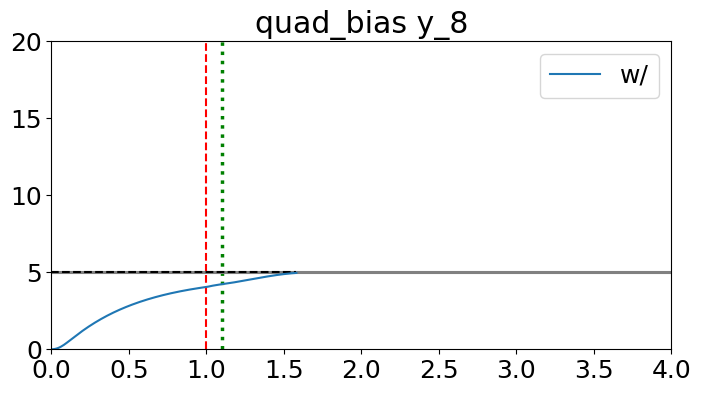
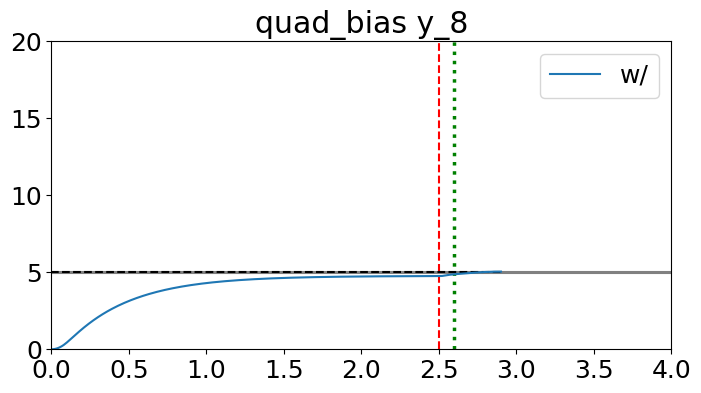
works

diff --git a/rtas/compare_all.py b/rtas/compare_all.py
@@ -82,48 +82,49 @@ for exp in exps:
             if i == exp.attack_start_index - 1:
                 logger.debug(f'trustworthy_index={i}, trustworthy_state={exp.model.cur_x}')
             if exp.recovery_index <= i < recovery_complete_index:
-                logger.debug(f'recovery_index={i}, recovery_start_state={exp.model.cur_x}')
-                
-                # State reconstruction
-                us = exp.model.inputs[exp.attack_start_index - 1:i]
-                xs = exp.model.states[exp.attack_start_index - 1:i+1]
-                x_0 = exp.model.states[exp.attack_start_index - 1]
-                x_cur_lo, x_cur_up, x_cur = non_est.estimate(x_0, us, xs, exp.unsafe_states_onehot)
-                logger.debug(f'reconstructed state={x_cur}')
+                if (i - exp.recovery_index) % exp.MPC_freq == 0:
+                    logger.debug(f'recovery_index={i}, recovery_start_state={exp.model.cur_x}')
+                    
+                    # State reconstruction
+                    us = exp.model.inputs[exp.attack_start_index - 1:i]
+                    xs = exp.model.states[exp.attack_start_index - 1:i+1]
+                    x_0 = exp.model.states[exp.attack_start_index - 1]
+                    x_cur_lo, x_cur_up, x_cur = non_est.estimate(x_0, us, xs, exp.unsafe_states_onehot)
+                    logger.debug(f'reconstructed state={x_cur}')
 
-                # deadline estimate only once
-                if i == exp.recovery_index:
-                    safe_set_lo = exp.safe_set_lo
-                    safe_set_up = exp.safe_set_up
-                    control = exp.model.inputs[i-1]
-                    k = non_est.get_deadline(x_cur, safe_set_lo, safe_set_up, control, max_k=100)
-                    deadline_for_all_methods = k
-                    recovery_complete_index = exp.recovery_index + k
-                    logger.debug(f'deadline={k}')
-                # maintainable time compute
+                    # deadline estimate only once
+                    if i == exp.recovery_index:
+                        safe_set_lo = exp.safe_set_lo
+                        safe_set_up = exp.safe_set_up
+                        control = exp.model.inputs[i-1]
+                        k = non_est.get_deadline(x_cur, safe_set_lo, safe_set_up, control, max_k=100)
+                        deadline_for_all_methods = k
+                        recovery_complete_index = exp.recovery_index + k
+                        logger.debug(f'deadline={k}')
+                    # maintainable time compute
 
 
-                # Linearize and Discretize
-                # Ad, Bd, cd = analytical_linearize_cstr(x_cur, exp.model.inputs[i-1], exp.dt)  # (2, 2) (2, 1) (2,)
-                Ad, Bd, cd = linearize.at(x_cur, exp.model.inputs[i-1])  
+                    # Linearize and Discretize
+                    # Ad, Bd, cd = analytical_linearize_cstr(x_cur, exp.model.inputs[i-1], exp.dt)  # (2, 2) (2, 1) (2,)
+                    Ad, Bd, cd = linearize.at(x_cur, exp.model.inputs[i-1])  
 
-                # get recovery control sequence
-                mpc_settings = {
-                    'Ad': Ad, 'Bd': Bd, 'c_nonlinear': cd,
-                    'Q': exp.Q, 'QN': exp.QN, 'R': exp.R,
-                    'N': k+maintain_time+1-(i-exp.recovery_index), # horizon (N) keeps decreasing in receding horizon MPC 
-                    'ddl': k-(i-exp.recovery_index), 'target_lo': exp.target_set_lo, 'target_up': exp.target_set_up,
-                    'safe_lo': exp.safe_set_lo, 'safe_up': exp.safe_set_up,
-                    'control_lo': exp.control_lo, 'control_up': exp.control_up,
-                    'ref': exp.recovery_ref
-                }
-                mpc = MPC(mpc_settings)
-                _ = mpc.update(feedback_value=x_cur)
-                rec_u = mpc.get_full_ctrl()
-                rec_x = mpc.get_last_x()
-                logger.debug(f'expected recovery state={rec_x}')
+                    # get recovery control sequence
+                    mpc_settings = {
+                        'Ad': Ad, 'Bd': Bd, 'c_nonlinear': cd,
+                        'Q': exp.Q, 'QN': exp.QN, 'R': exp.R,
+                        'N': k+maintain_time+1-(i-exp.recovery_index), # horizon (N) keeps decreasing in receding horizon MPC 
+                        'ddl': k-(i-exp.recovery_index), 'target_lo': exp.target_set_lo, 'target_up': exp.target_set_up,
+                        'safe_lo': exp.safe_set_lo, 'safe_up': exp.safe_set_up,
+                        'control_lo': exp.control_lo, 'control_up': exp.control_up,
+                        'ref': exp.recovery_ref
+                    }
+                    mpc = MPC(mpc_settings)
+                    _ = mpc.update(feedback_value=x_cur)
+                    rec_u = mpc.get_full_ctrl()
+                    rec_x = mpc.get_last_x()
+                    logger.debug(f'expected recovery state={rec_x}')
 
-                u = rec_u[0]
+                u = rec_u[(i - exp.recovery_index) % exp.MPC_freq]
                 exp.model.evolve(u)
                 print(f'after evolve - {exp.model.cur_x=}')
             elif recovery_complete_index <= i < recovery_complete_index + maintain_time + 1:

diff --git a/rtas/settings.py b/rtas/settings.py
@@ -165,7 +165,7 @@ class cstr_bias:
 #---------------quadrotor----------------------------
 class quad_bias:
     name = 'quad_bias'
-    max_index = 220
+    max_index = 500
     ref = [np.array([0,0,0,0,0,0,0,0,5,0,0,0])] * (max_index+1)
     dt = 0.01
     noise = {
@@ -178,9 +178,9 @@ class quad_bias:
     model = quadrotor(name, dt, max_index, noise=noise)
     ode_imath = quad_imath
     
-    attack_start_index = 100 # index in time
-    recovery_index = 110 # index in time
-    bias = np.array([0, 0, 0, 0, 0 ,0, 0, 0, -0.1, 0, 0, 0])
+    attack_start_index = 250 # index in time
+    recovery_index = 260 # index in time
+    bias = np.array([0, 0, 0, 0, 0 ,0, 0, 0, -0.3, 0, 0, 0])
     unsafe_states_onehot = [0, 0, 0, 0, 0, 0, 0, 0, 1, 0, 0, 0]
     attack = Attack('bias', bias, attack_start_index)
     
